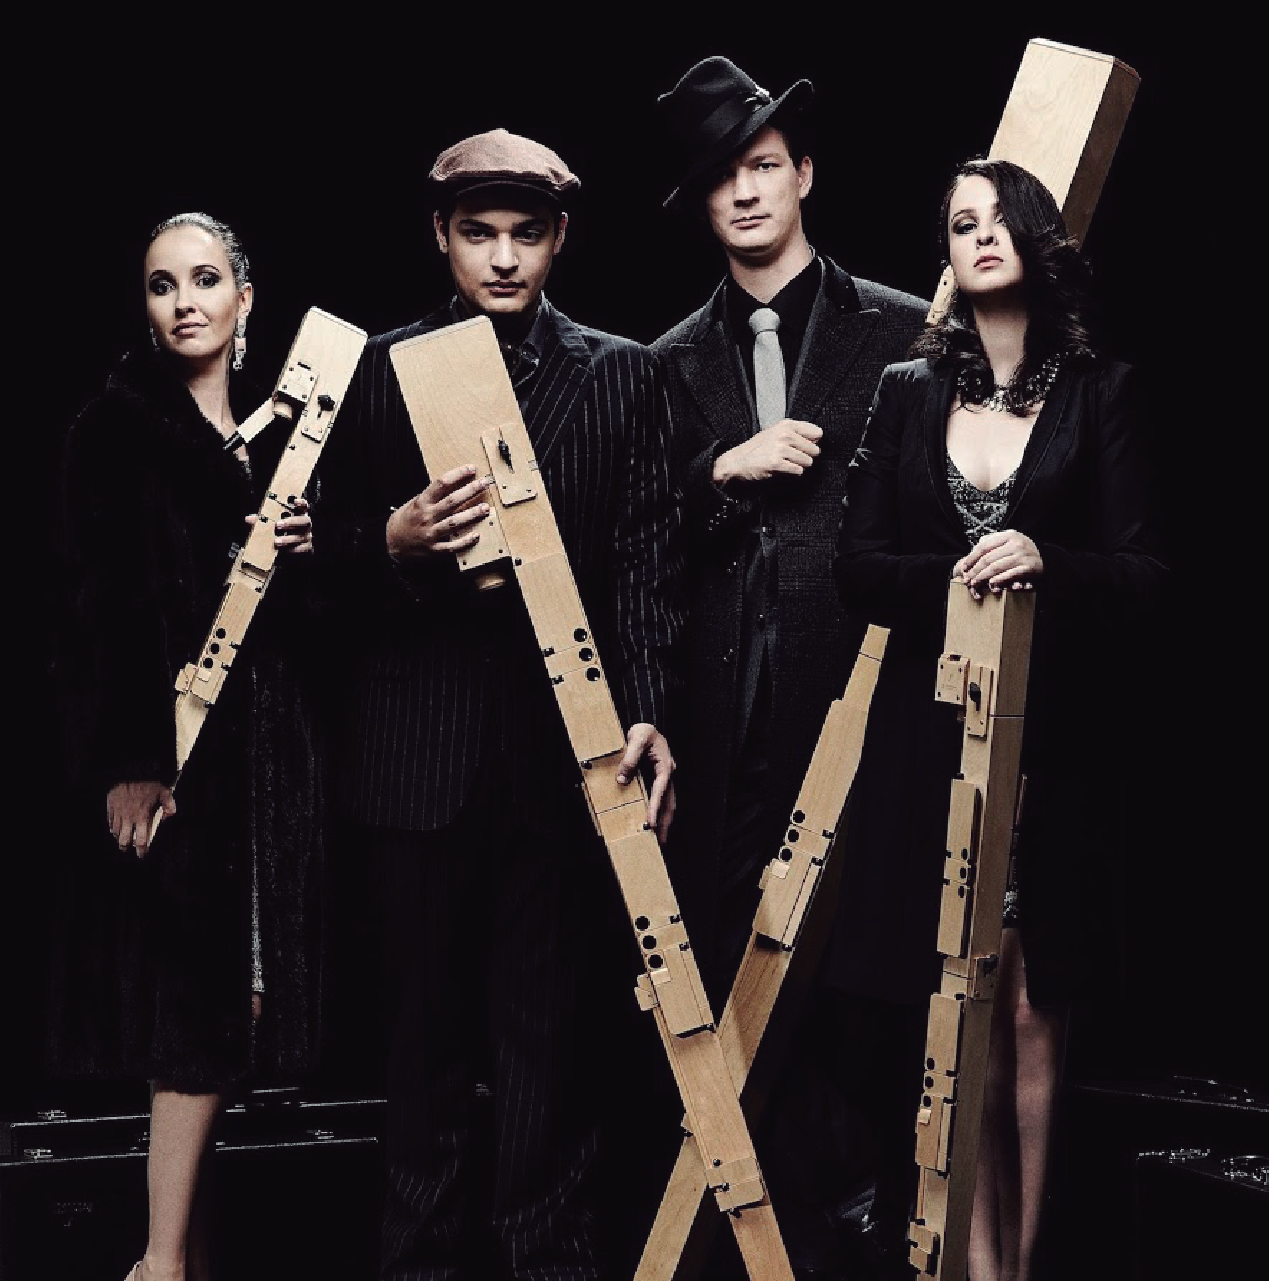
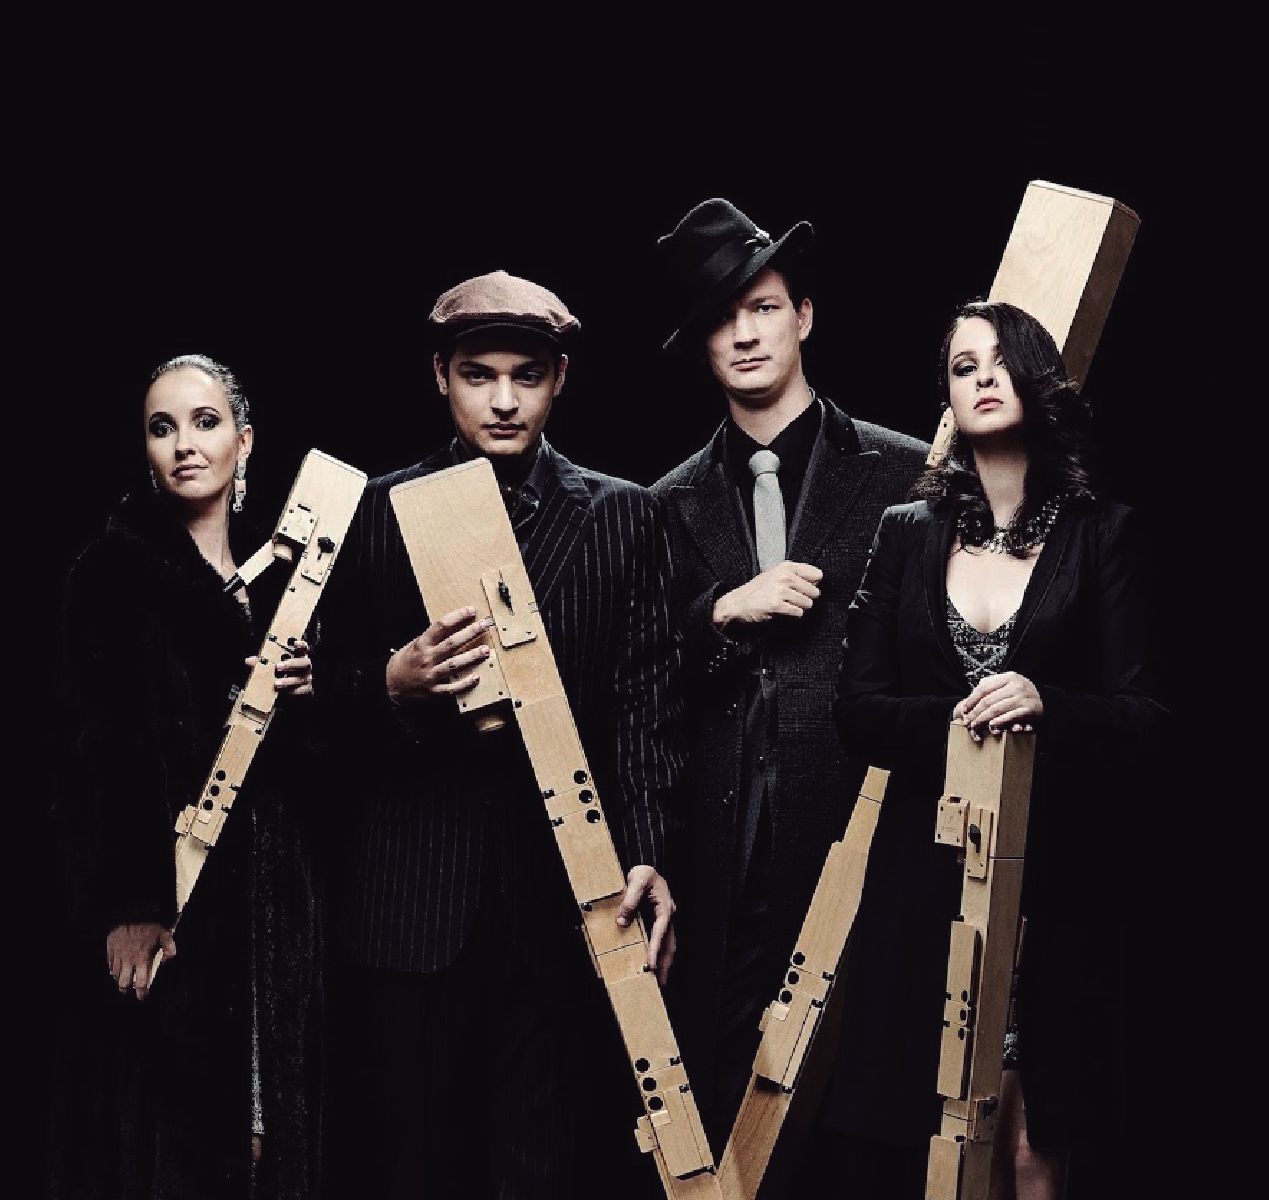
comeca o paralax

diff --git a/assets/css/style.css b/assets/css/style.css
@@ -5232,29 +5232,20 @@ video {
 	  width: 136vw;
 	  margin: -2% 0 -10% -10%;
 	  height: 50vw;
+	z-index:9;
 	
 }
 #destaque_texto{
-	padding: 20px 10%;
 	  color: #ffffff;
 	  margin-top: 70px;
 	  height: 500px;
 	  position: relative;
 	  z-index: 9;
+	  padding: 0 40vw 0 15vw;
 	  transform: rotateZ(-20deg);
-	
-	
+	  font-size: 1.4em;
 }
-#forma_destaque_texto{
-	width: 371px;
-	background-color: #ed912c;
-	height: 200px;
-	position: absolute;
-	top: -130px;
-	right: -10%;
-	
-	
-}
+
 #destaque_img{
 	position: relative;
 	  z-index: 99;
@@ -5268,6 +5259,43 @@ video {
 	  max-width: 110vw;
 	  margin: -10px 0 -10px -2.5%%;
 	  width: 44.5vw;
+}
+#sobre{
+	background-attachment:fixed;
+	position:relative;
+	z-index:1;
+	top: -220px;
+	padding-top:800px;
+  
+	
+}
+#triangulo {
+	width: 0;
+   	height: 0;
+	border-top: 0 solid transparent;
+	border-left: 108vw solid #292929;
+	border-bottom: 19vw solid transparent;
+	position: relative;
+	z-index: 99;
+	transform: rotateZ(20deg);
+	margin-left: -8vw;
+}
+#sobre header{
+	/*background: #292929;
+		transform: rotateZ(20deg);
+		width: 120%;
+		margin-left: -99px;
+		height: 300px;
+		padding: 155px 164px;*/
+}
+#sobre header h1{
+/*	  transform: rotateZ(-20deg);*/
+	display:inline-block;
+	color:#ffffff;
+	text-transform:uppercase;
+	font-weight:200;
+	font-size:3.3em;
+	
 }
 
 #interno-nav-flauta div{

diff --git a/content-secao.php b/content-secao.php
@@ -5,11 +5,22 @@
  * @package Odin
  * @since 2.2.0
  */
-?>
 
-<article style="background-color:<?php the_field('cor_fundo'); ?>" id="<?php echo $post->post_name ?>" <?php post_class('row'); ?>>
+global $odin_general_opts;
+$parallax_1 = wp_get_attachment_url($odin_general_opts['parallax_1'], 'full');
+switch ($post->post_name) {
+   case 'sobre':
+        $background = 	$parallax_1;
+		$entre = "<div id='triangulo'></div>";
+         break;
+	}
+?>
+<article style='background-image:url("<?php echo  $background ?>");' id="<?php echo $post->post_name ?>" <?php post_class('row'); ?>>
 	<div class="secao-conteudo col-md-12"  >
-		<?php the_title( '<header class="entry-header"><h1 class="entry-title">', '</h1></header><!-- .entry-header -->' ); ?>
+		<?php 
+		echo $entre;
+		
+		the_title( '<header class="entry-header"><h1 class="entry-title">', '</h1></header><!-- .entry-header -->' ); ?>
 		<?php
 		the_content();
 		?>

diff --git a/inc/options.php b/inc/options.php
@@ -42,6 +42,13 @@ $odin_theme_options->set_fields(
 				    'type'        => 'image', // Obrigatório
 				    'default'     => '', // Opcional (deve ser o id de uma imagem em mídia)
 				    'description' => __( 'Imagem da Seção de destaque', 'odin' ), // Opcional
+				),
+				array(
+				    'id'          => 'parallax_1', // Obrigatório
+				    'label'       => __( 'Imagem de fundo paralax 1', 'odin' ), // Obrigatório
+				    'type'        => 'image', // Obrigatório
+				    'default'     => '', // Opcional (deve ser o id de uma imagem em mídia)
+				    'description' => __( 'Imagem entre destaque e Sobre', 'odin' ), // Opcional
 				)
             )
         ),

diff --git a/front-page.php b/front-page.php
@@ -52,9 +52,9 @@ $odin_general_opts = get_option( 'odin_general' );
 				
 				?>
 			</article>
+			
 			<?php 
 
-			
 		$args = array(
 			'post_type' => 'secao',
 			'meta_key' => 'ordem',
